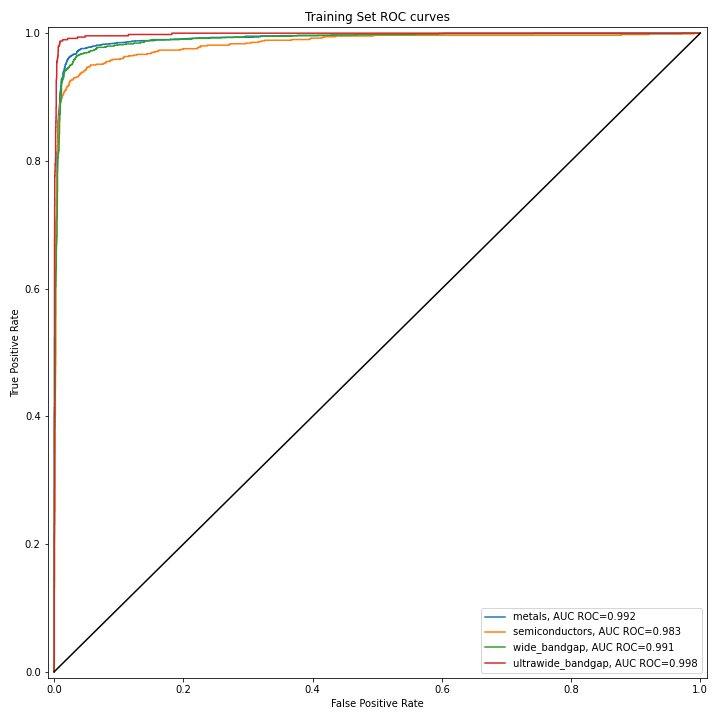
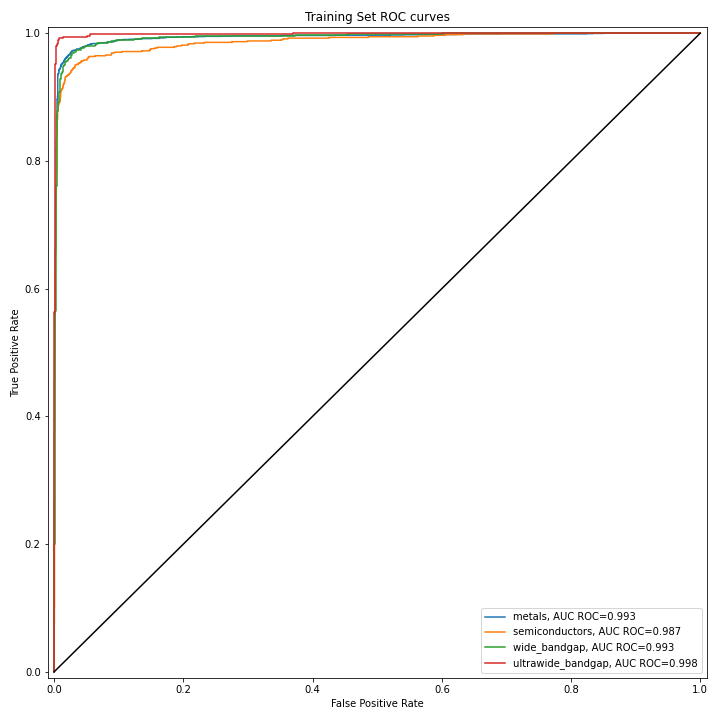
Rerun notebooks

Changed region(s): [[0.0611, 0.0306, 0.9167, 0.8556]]

diff --git a/DigitalEcosystem/refined/metal_classifier/multiple_bins/multi_bin_classifier.py b/DigitalEcosystem/refined/metal_classifier/multiple_bins/multi_bin_classifier.py
@@ -249,7 +249,7 @@ study = optuna.create_study(
 )
 
 
-# In[ ]:
+# In[]:
 
 
 study.optimize(objective, n_trials=256, callbacks=[keep_best_bandgap_model])
@@ -260,10 +260,8 @@ study.optimize(objective, n_trials=256, callbacks=[keep_best_bandgap_model])
 # To assess model performance, we'll print out some ROC curves here.
 # 
 # Although we hold out a validation set in our objective function, we do not retrain the model on the entire training set, as this validation set was also used to control the early stopping of our XGBoost model (and thus helps guard against overfitting).
-# 
-# Overall, we see generally good results for both our training set and our testing set.
 
-# In[ ]:
+# In[]:
 
 
 labels = {j[0]:i for (i,j) in cutoffs.items()}
@@ -309,7 +307,7 @@ plot_multi_roc(test_x, test_y, "Test", labels)
 # 
 # 
 
-# In[ ]:
+# In[]:
 
 
 def draw_confusion_matrix(x, y, label, classnames, classifier):
